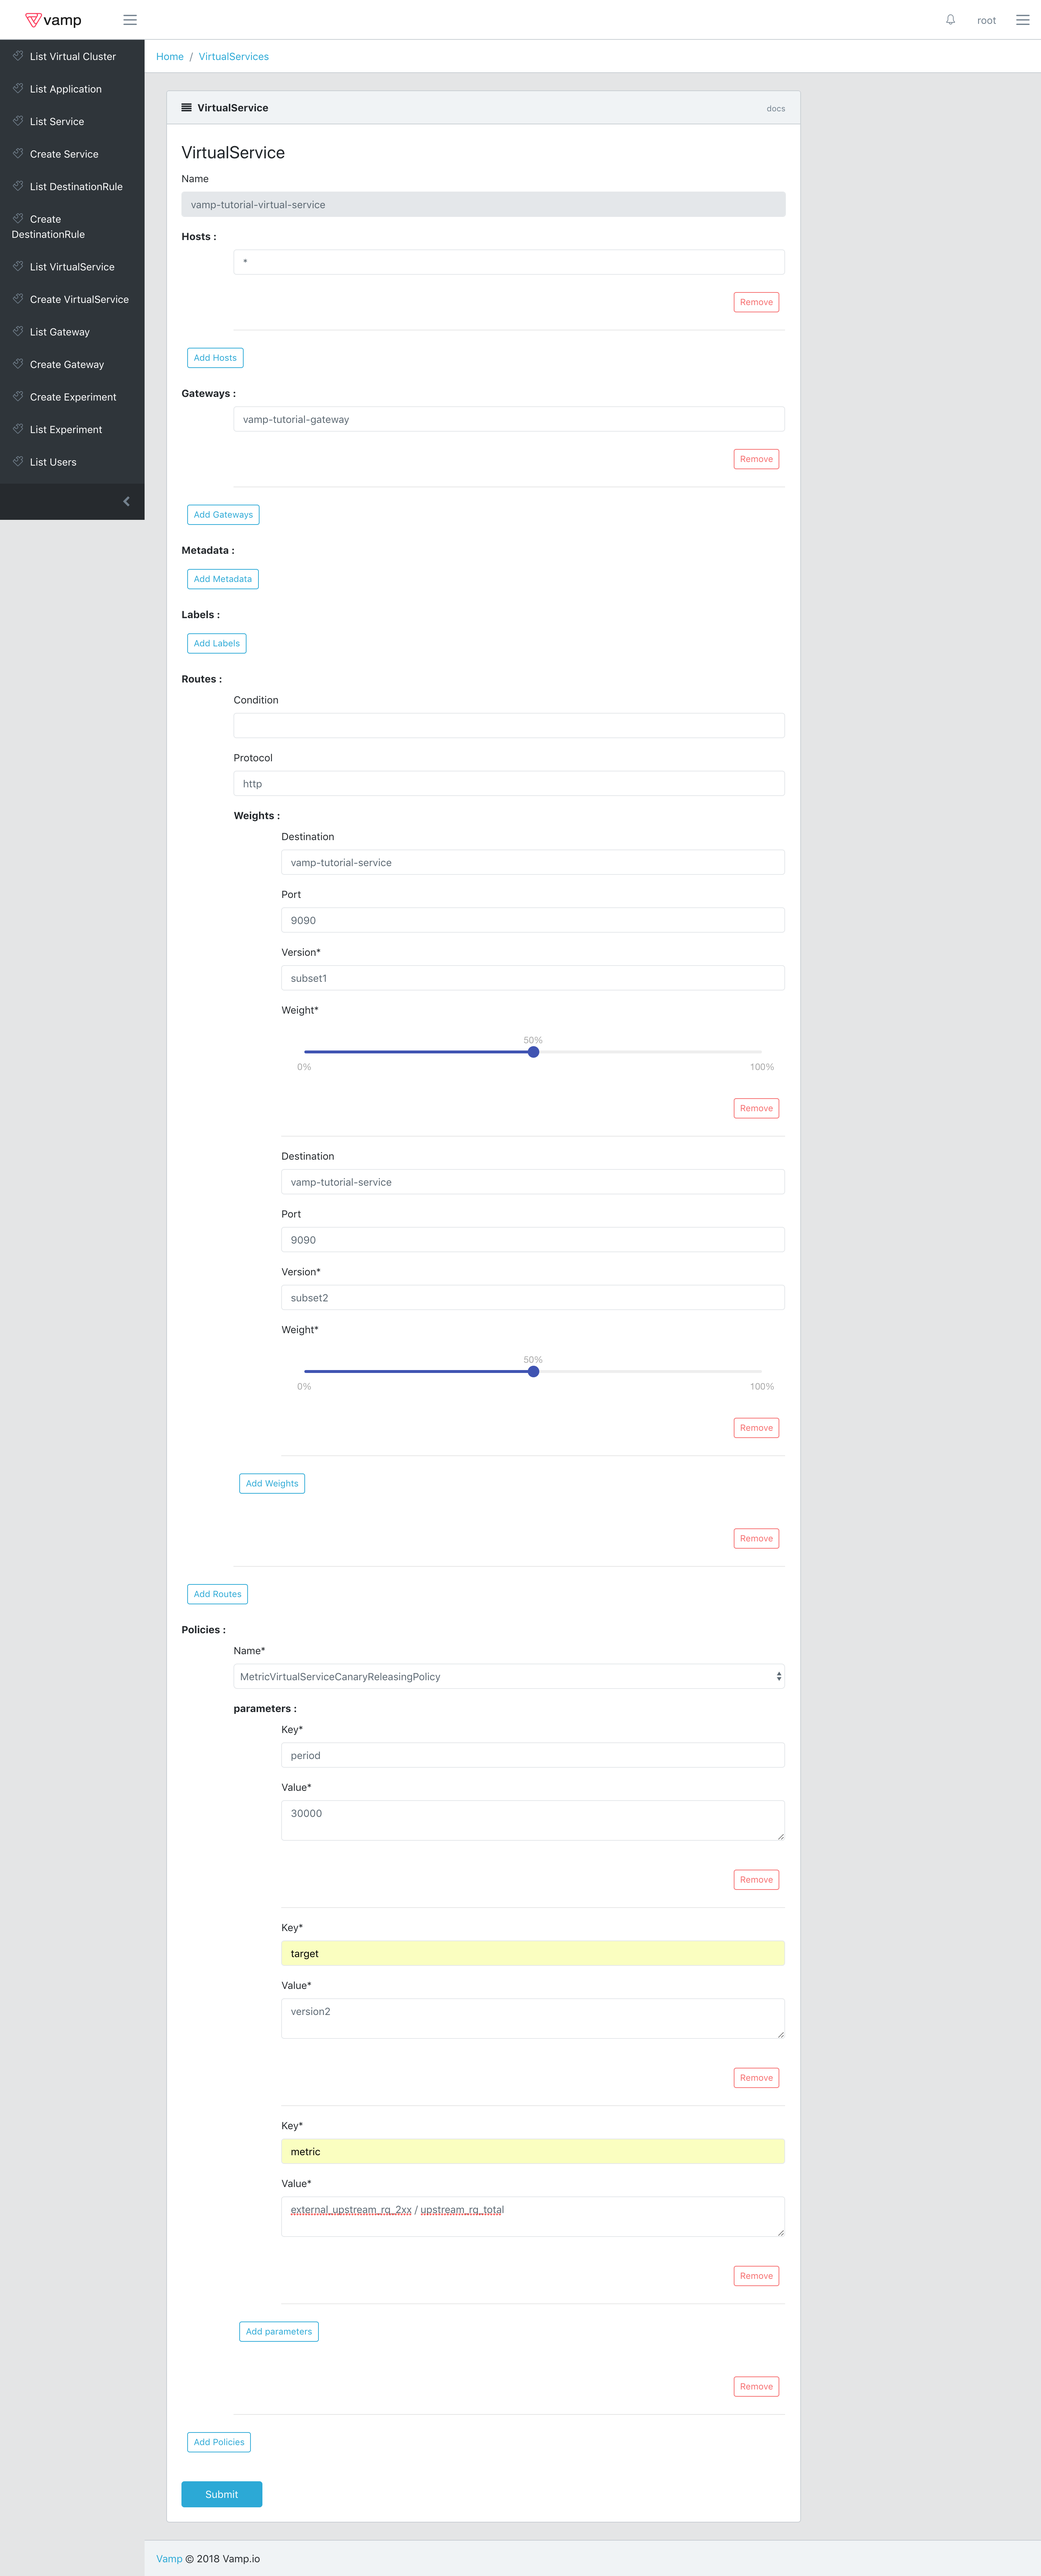
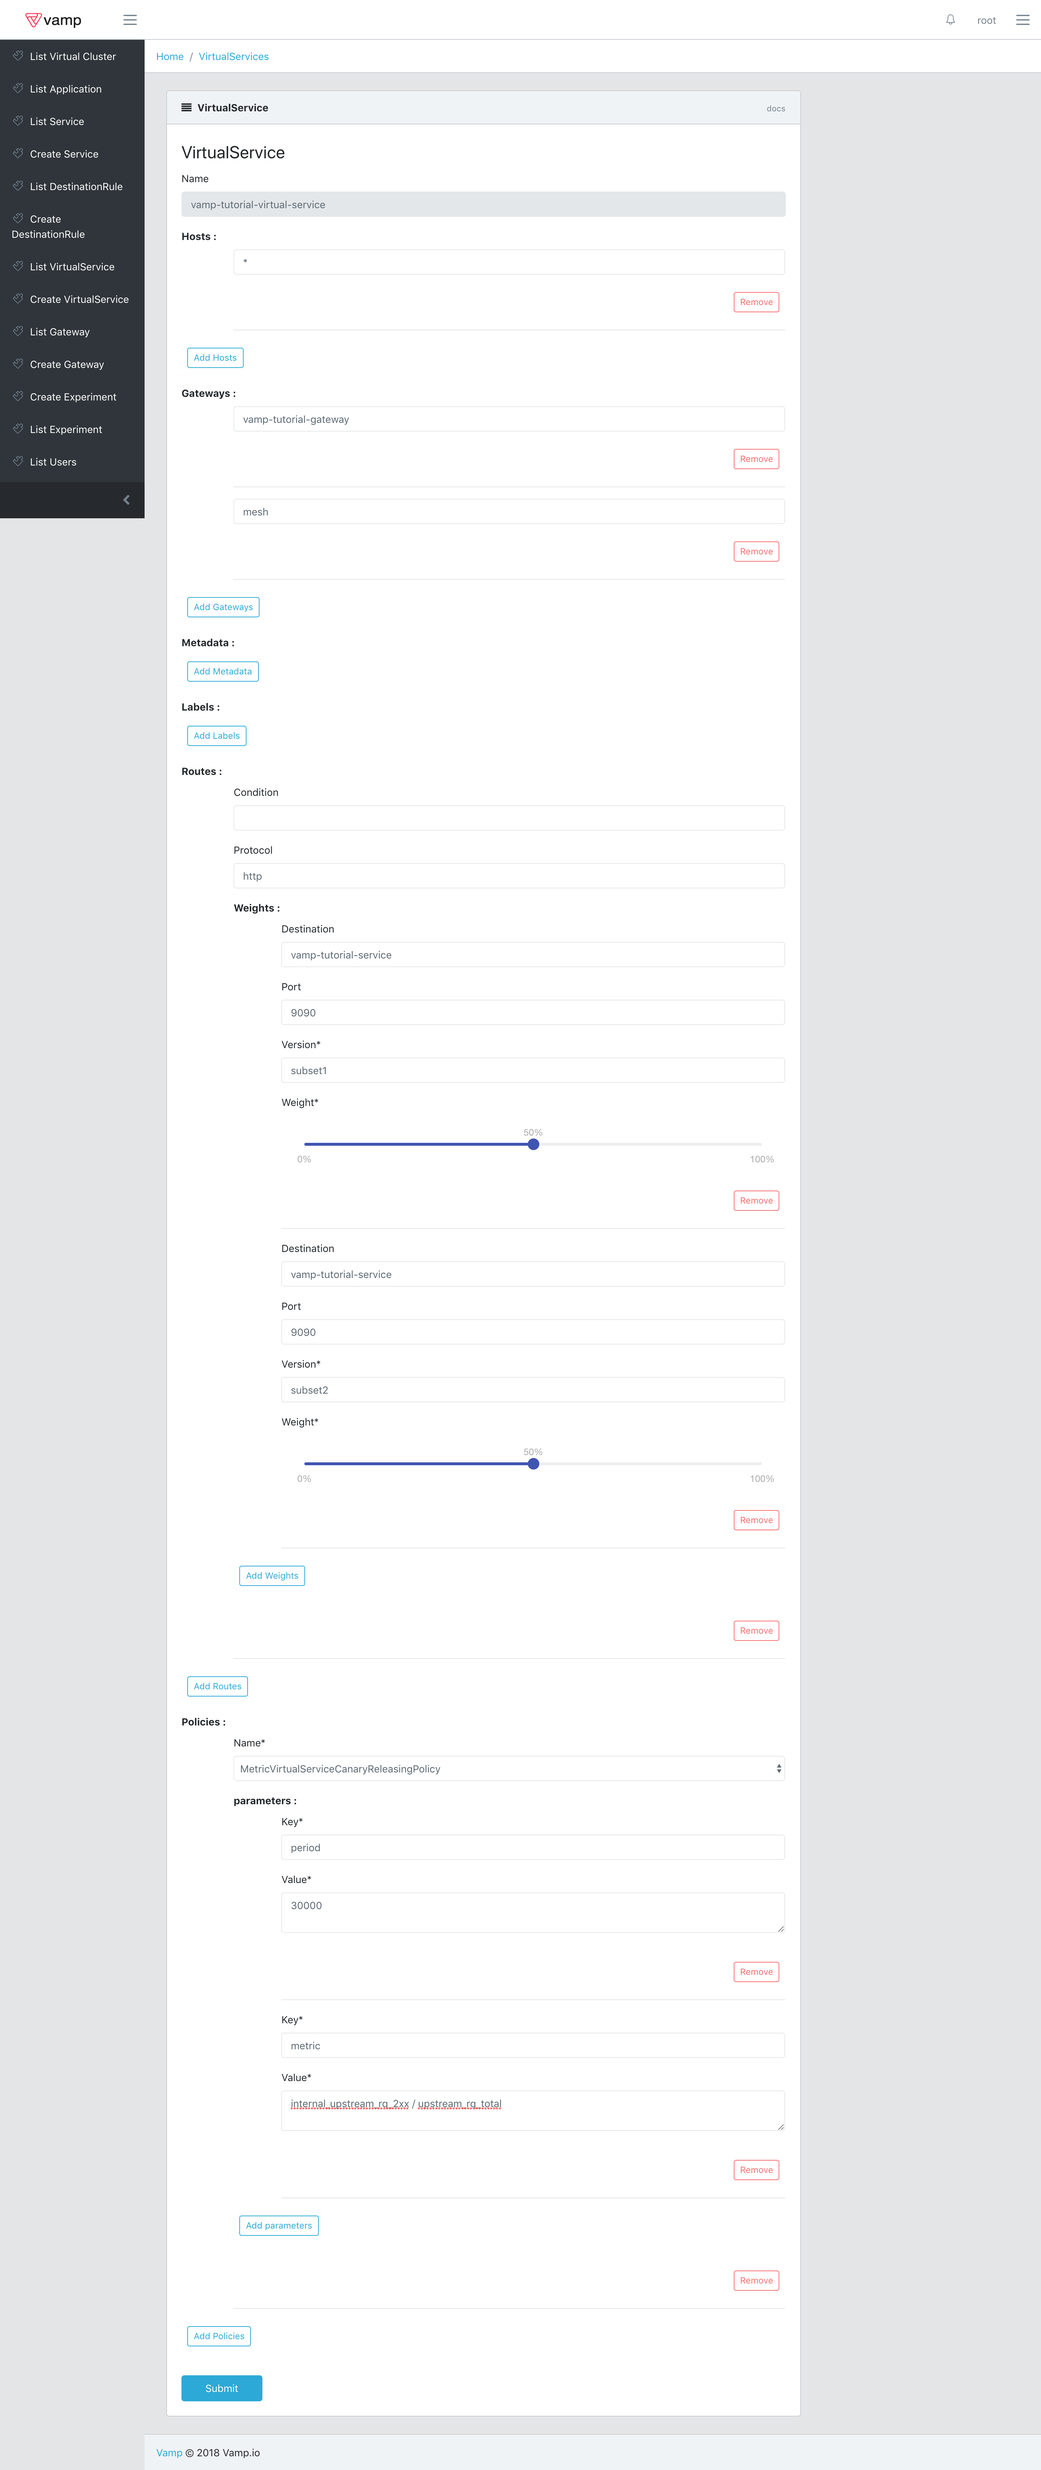
Finishing up Readme update

diff --git a/README.md b/README.md
@@ -3,7 +3,7 @@
 Lamia is a single Docker container that provides a REST API and React-based UI that you can use to:
 
 - gradually roll-out a new version of a service;
-- automatically rollback to the original version, in the case of errors; and
+- automatically rollback to the original version, in the case of errors and
 - apply routing conditions.
 
 This Guide will help you set up Lamia on a kubernetes cluster.
@@ -56,7 +56,7 @@ Enter password when asked, password will not be visible and it will be asked twi
 Installer will tell you where to connect like:
 
 ```
-use http://111.122.133.144:8888 to connect
+use http://111.222.333.444:8888/ui/#/login to connect
 ```
 
 If you need to retrieve the IP afterwards you can do it via kubectl
@@ -65,11 +65,7 @@ If you need to retrieve the IP afterwards you can do it via kubectl
 kubectl get svc vamp -n=vamp-system
 ```
 
-Copy the url and paste on your browser and add /ui/#/login
-
-http://111.122.133.144:8888/ui/#/login 
-
-to login and start using.
+Copy the url and paste on your browser to login and start using.
 
 The default username is root.
 
@@ -155,7 +151,7 @@ and the following int he logging namespace
 
 If any of these resources are missing, Lamia will try to install Istio.
 
-**Keep in mind that if you have pre-existing deployments, then after the installation is complete, you will need to restart them or trigger a rolling update in order for the Istio Sidecar to be injected.**
+**Keep in mind that if you have pre-existing deployments, then, after the installation is complete, you will need to restart them or trigger a rolling update in order for the Istio Sidecar to be injected.**
 
 ## Terminology
 
@@ -172,6 +168,7 @@ Most of them overlap completely with kubernetes entities, but some don't.
 - **Destination Rule**: an Istio DestinationRule, which defines a subset of Deployments of one or several versions, based on common labels
 - **Virtual Service**: an Istio VirtualService, which handles routing of requests towards Services
 - **Policy**: an automated process that periodically performs actions over an entity. Currently only used for Gateways. For more details refer to the [Performing a canary release](#performing-a-canary-release) section. 
+- **Experiment**: an automated processmanaging several resources involved in A/B testing a specific Service.
 
 ## Performing a canary release
 
@@ -435,11 +432,11 @@ First of all, however, you need to setup a Destination Rule for you Service.
 
 A Destination Rule is an Istio resource that abstracts from the set of labels defined on the Deployments underlying a Service, by defining one or more Subsets.
 Subsets are then referenced by Virtual Services in order to route traffic through the Service.
-You can create a new Destination Rule through Lamia by selecting DestinationRule - Create DestinationRule and fillign the presented form as shown below:
+You can create a new Destination Rule through Lamia by selecting Create DestinationRule and filling the presented form as shown below:
 
 ![](images/screen11.png)
 
-When you filled in the required configuration, just click submit and then check the result in DestinationRule - List DestinationRule - details.
+When you filled in the required configuration, just click submit and then check the result in List DestinationRule - details.
 
 ![](images/screen12.png)
 
@@ -477,15 +474,19 @@ This is the same behaviour as the Service, so you won't be able to see any diffe
 **Keep in mind that the weights should always add up to 100, otherwise the configuration will not be applied.**
 
 You can also retrieve the virtual service using `kubectl` by running the following command:
+
 ````
 kubectl get virtualservice vamp-tutorial-virtual-service -n vamp-tutorial
 ````
+
+You might have noticed that in the configuration, besides the Gateway you created, there's also another one, named mesh.
+Adding this Gateway enables the Virtual Service to be exposed internally.
 
 ### Adding Routing Conditions
 
 Let's try now adding more complex conditions to regulate the traffic on the Service.
 Inorder to do that you will  have to edit the Virtual Service configuration you just created.
-Select Virtual Service - Virtual Service List and click on edit.
+Select List Virtual Service and click on edit.
 Now specify the following condition:
 
 ````
@@ -525,7 +526,7 @@ Let's now edit again the gateway and remove the conditions you just specified an
 It's time to try something a bit more complex.
 Lamia Virtual Services allow users to specify Policies, i.e. automated processes than can alter the Virtual Service configuration over a period of time.
 When specifying a new Policy of this kind there are several options, let's start with the simplest one.
-Select Virtual Service - List Virtual Service - edit and specify the values shown below in the Policies section, then submit.
+Select List Virtual Service - edit and specify the values shown below in the Policies section, then submit.
 
 ![](images/screen16.png)
 
@@ -608,7 +609,7 @@ spec:
 This will inject errors on 30% of the requests going towards deployment2 and, consequently, cause the Policy to shift weights towards version1, despite the fact that version2 is the declared target.
 Obviously nothing will happen unless you actually send requests to the service.
 There's an easy way to do that thanks to the specific image we are using for this tutorial.
-Go to Gateway - List Gateway and open the details for the Gateway you previously created and click the link to your Service and add /ui at the end to get to this ui.
+Go to List Gateway and open the details for the Gateway you previously created and click the link to your Service and add /ui at the end to get to this ui.
 
 ![](images/screen18.png)
 
@@ -617,7 +618,7 @@ This tool is not really part of Lamia, but it comes in handy to test the behavio
 
 ![](images/screen19.png)
 
-You can check the distribution of traffic both from the tool itself or by selecting Virtual Service - Virtual Service List and clicking on metrics.
+You can check the distribution of traffic both from the tool itself or by selecting Virtual Virtual Service List and clicking on metrics.
 This will present you with the interface shown below.
 
 ![](images/screen20.png)
@@ -631,22 +632,22 @@ In order to do that you can edit the Virtual Service as shown below
 
 ![](images/screen21.png)
 
-As you can see besides changing the type of Policy you also need to specify the **metric** parameter which will tell Lamia which metric or combination of metric to use.
+As you can see besides changing the type of Policy you also need to specify the **metric** parameter which will tell Lamia which metric or combination of metrics to use.
 In this scenario the value we are using is:
 
 ````
-external_upstream_rq_2xx / upstream_rq_total
+internal_upstream_rq_2xx / upstream_rq_total
 ````
 
 In this case we are basically replicating the behaviour from the health based canary release by calculating the ratio of successful responses over the total number of requests
 Metrics names are loosely based on Prometheus metrics names stored by Envoy (they are usually the last part of the metric name).
 Some of the available metrics are:
 
-- **external_upstream_rq_200**
-- **external_upstream_rq_2xx**
-- **external_upstream_rq_500**
-- **external_upstream_rq_503**
-- **external_upstream_rq_5xx**
+- **internal_upstream_rq_200**
+- **internal_upstream_rq_2xx**
+- **internal_upstream_rq_500**
+- **internal_upstream_rq_503**
+- **internal_upstream_rq_5xx**
 - **upstream_rq_total**
 
 This type of Policy, however, comes with a limitation: you can only specify one condition, that is "select the version with the best metric".
@@ -655,7 +656,7 @@ What if you wanted to have more complex condition?
 #### Custom canary release
 
 To do that you would have to use the last type of Policy available at the moment and configure the Gateway as shown below,
-by putting the condition
+by specifying the condition
 
 ````
 if ( ( metric "vamp-tutorial-service" 9090 "subset1" "internal_upstream_rq_2xx" / metric "vamp-tutorial-service" 9090 "subset1" "upstream_rq_total" ) > ( metric "vamp-tutorial-service" 9090 "subset2" "internal_upstream_rq_2xx" / metric "vamp-tutorial-service" 9090 "subset2" "upstream_rq_total" ) ) { result = "vamp-tutorial-service 9090 subset1"; } else if ( ( metric "vamp-tutorial-service" 9090 "subset1" "internal_upstream_rq_2xx" / metric "vamp-tutorial-service" 9090 "subset1" "upstream_rq_total" ) < ( metric "vamp-tutorial-service" 9090 "subset2" "internal_upstream_rq_2xx" / metric "vamp-tutorial-service" 9090 "subset2" "upstream_rq_total" ) ) { result = "vamp-tutorial-service 9090 subset2"; } else { result = nil; } result
@@ -668,7 +669,7 @@ in the value field for the metric parameter
 As you can probably understand by looking at the expression above, this Policy will again replicate the behaviour of the previous Policies, but it will allow for much greater flexibility.
 You will now be able to specify different versions based on the conditions you are verifying and also to return no version at all (by returning nil) when you want the Policy to not apply any change.
 
-You can now keep on experimenting with the Virtual Service, trying new things. Keep in mind that if you want to return the dpeloyments to the previous state (in which no errors are returned) you can do that by executing
+You can now keep on experimenting with the Virtual Service, trying new things. Keep in mind that if you want to return the deployments to the previous state (in which no errors are returned) you can do that by executing
 
 ````
 kubectl replace -f deployments.yaml
@@ -688,9 +689,9 @@ deployment "deployment2" created
 ````
 
 At this point you will have a new namespace named vamp-demo containing two versions of a simple e-commerce, that wil be imported by Lamia into a single application.
-Now, before you can proceed with setting up the Experiment you will first have to create a Service a Detsination Rule and a Gateway for the Experment to use.
-Since you already did that before in previous steps of this tutorial, you shoul be able to go through it quickly by referring to the configurations shown below.
-**Mind the fact that before creaing the new Gateway you should delete the one you created for the previous steps of the tutorial.
+Now, before you can proceed with setting up the Experiment you will first have to create a Service a Destination Rule and a Gateway for the Experment to use.
+Since you already did that in the previous steps of this tutorial, you should be able to go through it quickly by referring to the configurations shown below.
+**Mind the fact that before cretaing the new Gateway and Virtual Service you should delete the ones you created for the previous steps of the tutorial.
 Since we are keeping a very generic configuration, they might otherwise end up conflicting with each other.**
 
 ![](images/screen23.png)
@@ -704,11 +705,11 @@ Select Create Experiment and submit the following configuration.
 
 ![](images/screen26.png)
 
-To make a bit clearer what is going to happen when you submit let's first go through the purpose of each field:
+To clarify a bit what is going to happen when you submit, let's first go through the purpose of each field:
 
-- **Service Name**: the name of the service on which you want to run the A/B testing.
+- **Service Name**: the name of the Service on which you want to run the A/B testing.
 - **Service Port**: the Service port to use.
-- **Gateway Name**: the Gatway trhough which the Service will be exposed.
+- **Gateway Name**: the Gatway through which the Service will be exposed.
 - **Period in minutes**: the time interval in minutes after which periodic updates to the configuration will happen.
 - **Step**: the amount by which route's weights will shift at each update.
 - **Tags**: at the moment tags are just descriptive values for a specific version of the service.
